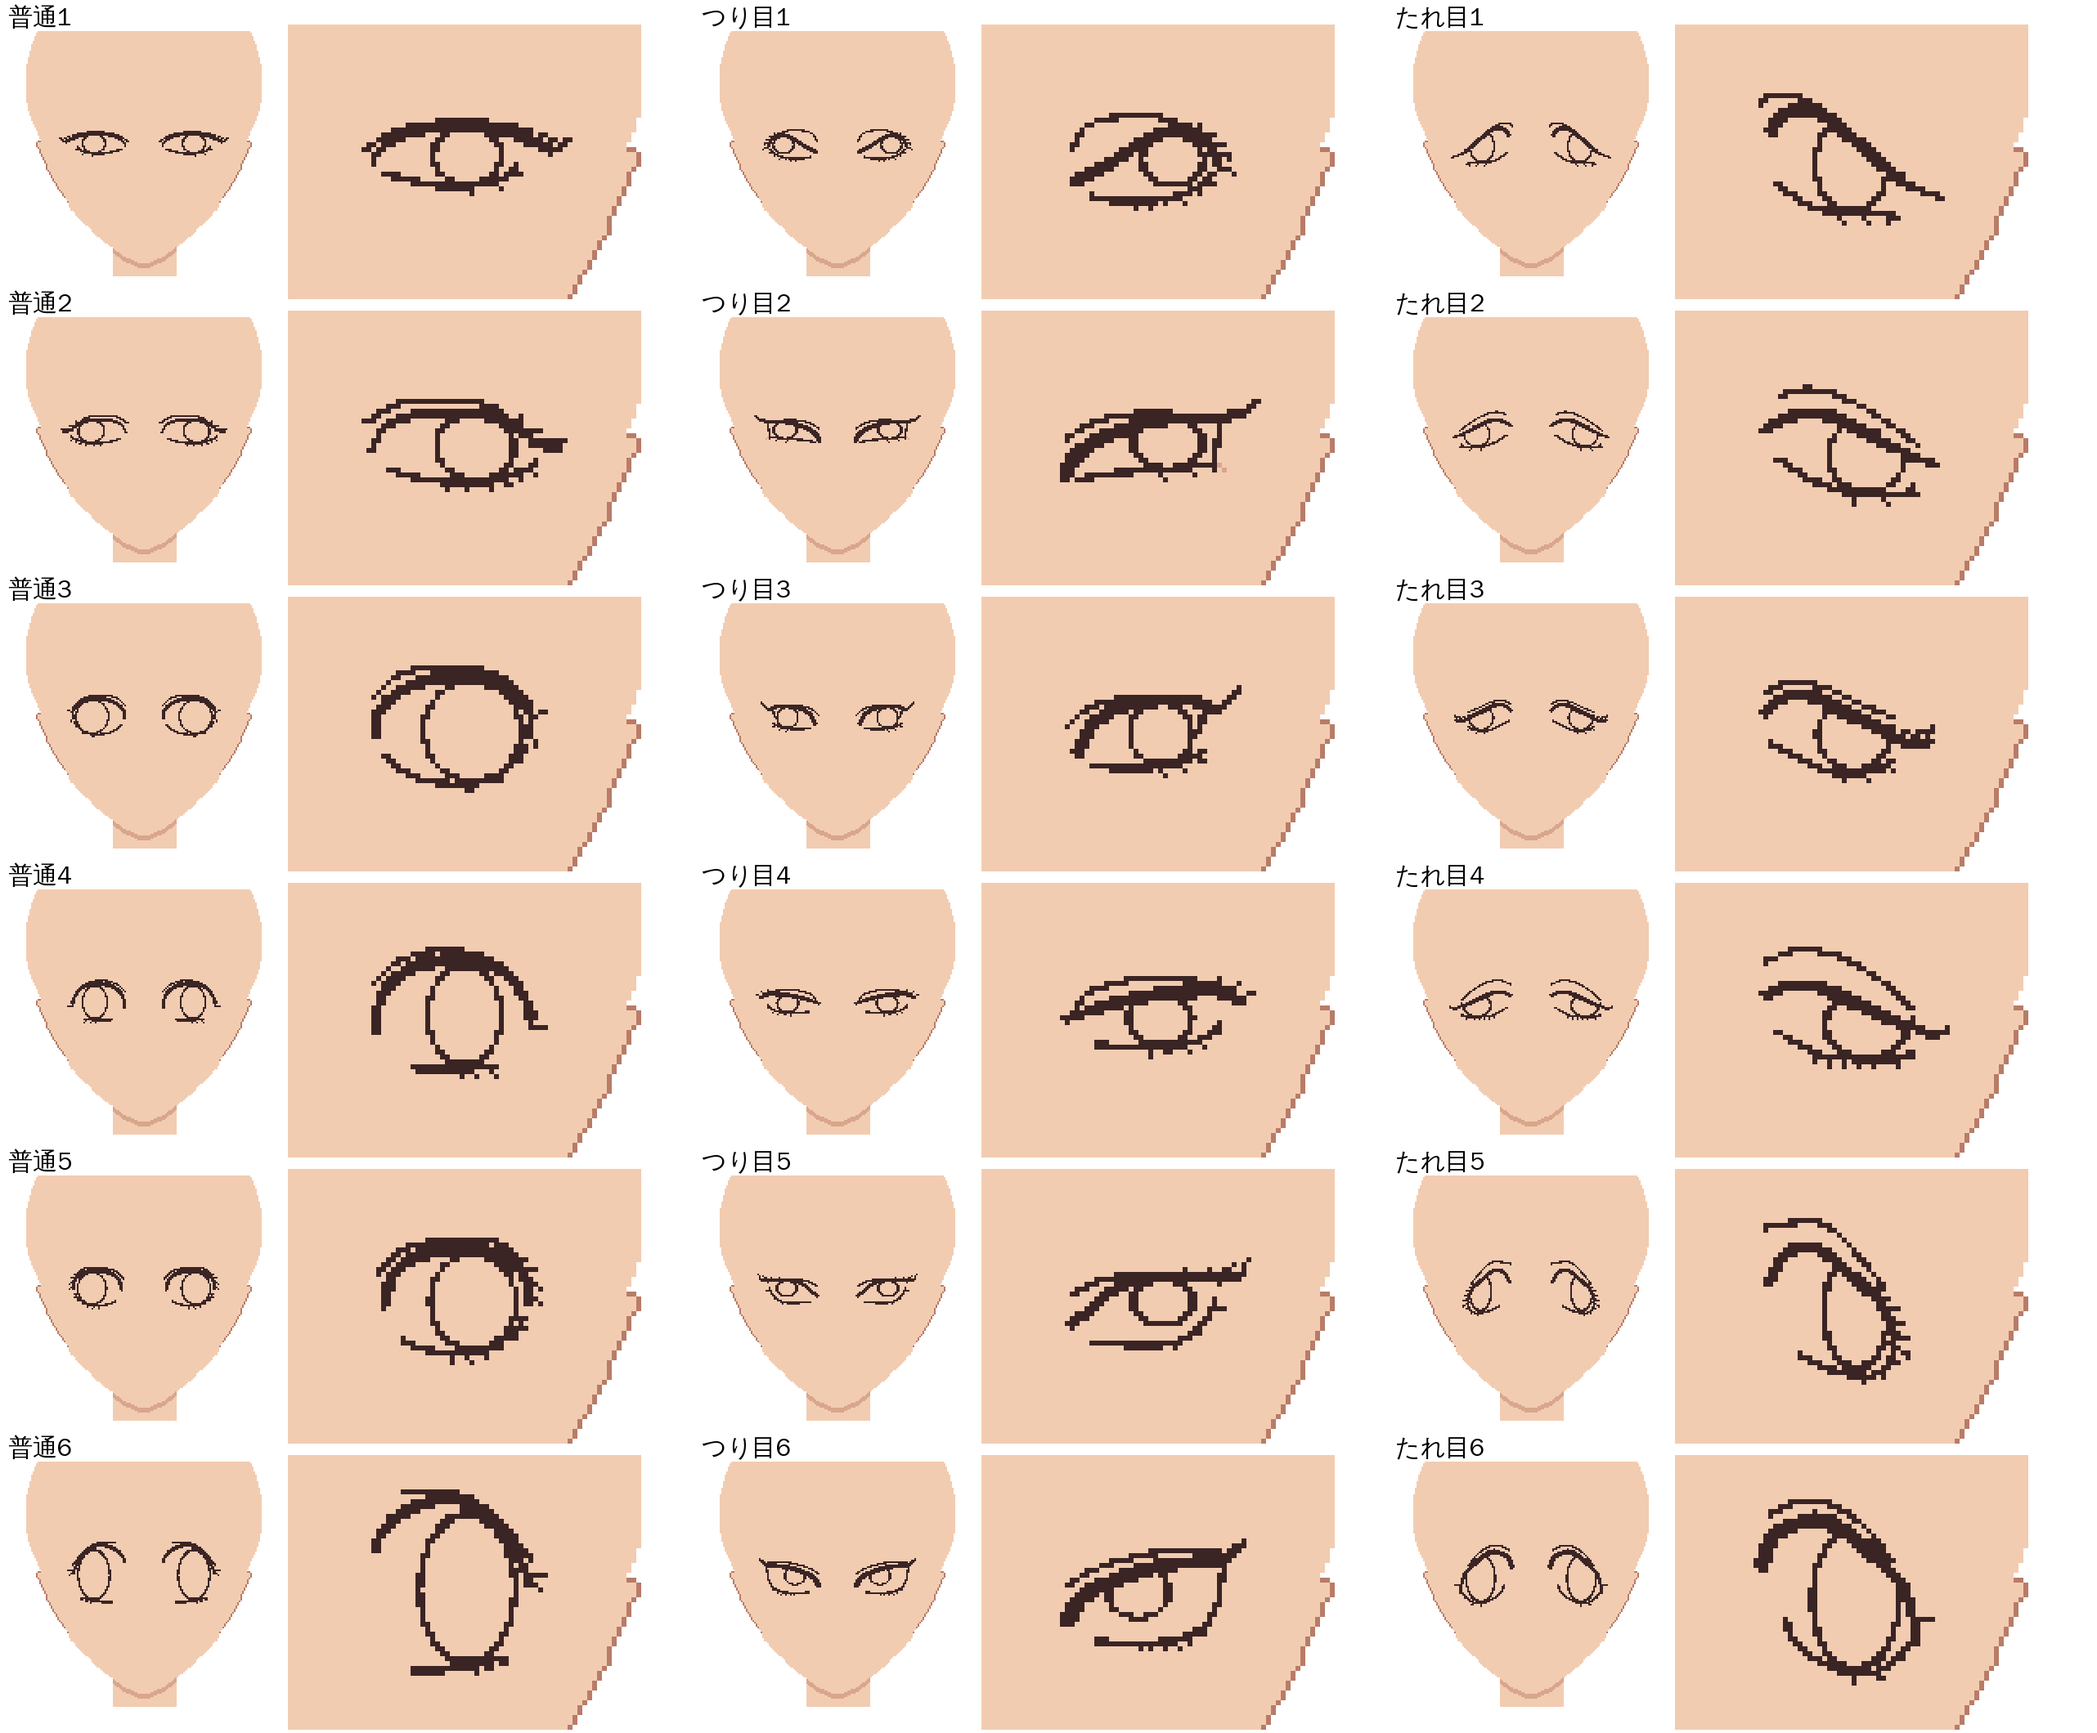
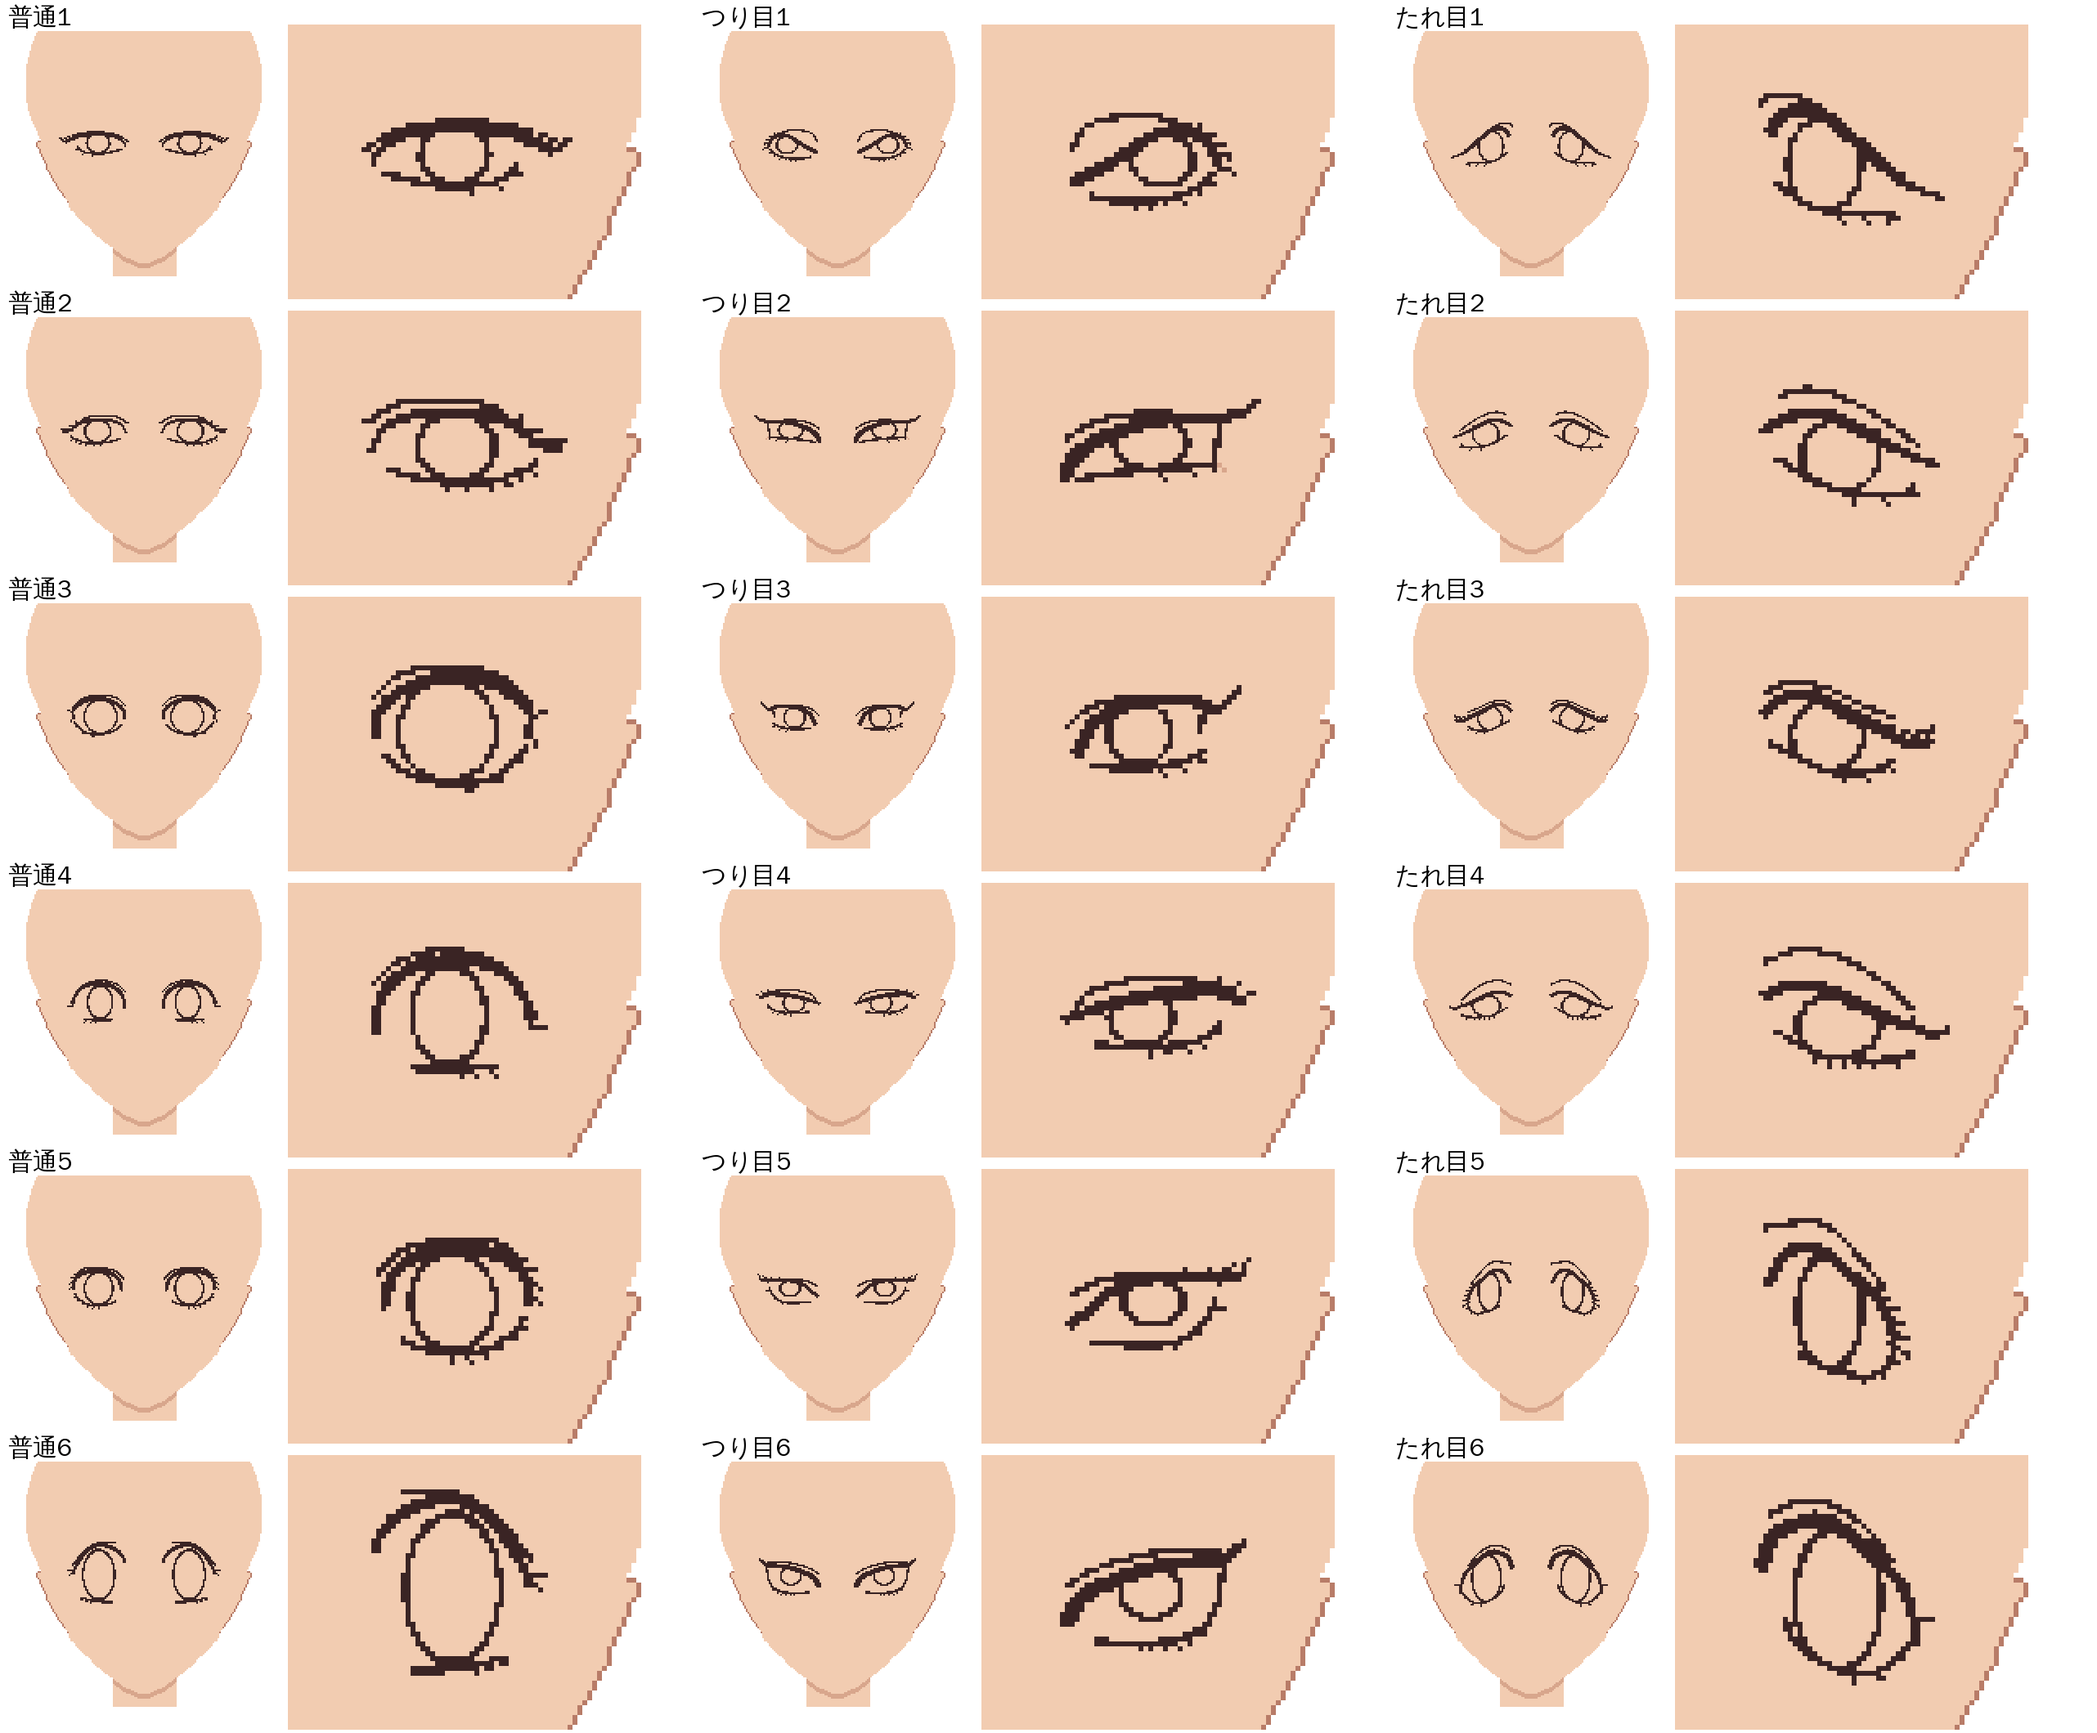
droom 臉模 v2：黑眼珠橫向改放在眼睛開口正中間、再往內眼角偏 0.6（使用者：眼珠太外面；IRCENTER=0 回到教學量的位置、IRIN 調偏多少）
Claude-Session: https://claude.ai/code/session_01FDQv7ddy7JMjePn6AqJ3VJ

diff --git a/web/droom/face_mold/v2/eyeframe.py b/web/droom/face_mold/v2/eyeframe.py
@@ -10,6 +10,7 @@ import math
 import os
 LINE=os.environ.get('LINE')=='1'
 LOWC='c';HOOKK=.7
+IRCENTER=os.environ.get('IRCENTER','1')=='1';IRIN=float(os.environ.get('IRIN','.6'))
 # 2026-11-19 第二本教學（普通／つり目／たれ目各 6 個）：上眼線外半段長出一根根細睫毛、下眼線外側幾根小短毛、
 # 雙眼皮線拉長貼著上眼線、黑眼珠改成直的橢圓（比較高、比較窄）
 LASHN=4;LASHL=3.0;IRISW,IRISH=5.6,7.8
@@ -166,6 +167,15 @@ class Frame:
         (x0,y0),(x1,y1)=lo[i],lo[i+1];tx,ty=x1-x0,y1-y0;L=math.hypot(tx,ty) or 1;tx/=L;ty/=L
         nx,ny=-ty,tx;dx,dy=nx*.8+tx*.5,ny*.8+ty*.5;D=math.hypot(dx,dy)
         s.lolash.append([(x0,y0),(x0+dx/D*1.5,y0+dy/D*1.5)])
+    # 黑眼珠橫向放在眼睛開口（黑眼珠中心那一列）的正中間，再往內眼角偏 IRIN（使用者 2026-11-19：眼珠太外面了；
+    # 教學是單眼示範，黑眼珠常常偏外眼角，兩眼放到臉上會像往外看）
+    s.irx=None
+    if 'ir' in T:
+      cy=T['ir'][1];xs=[]
+      for i in range(len(s.poly)):
+        (x1,y1),(x2,y2)=s.poly[i-1],s.poly[i]
+        if (y1-cy)*(y2-cy)<=0 and y1!=y2:xs.append(x1+(x2-x1)*(cy-y1)/(y2-y1))
+      if len(xs)>=2:s.irx=(min(xs)+max(xs))/2-IRIN
     s.box=(min(p[0] for p in s.poly)-5,max(p[0] for p in s.poly)+6,min(p[1] for p in s.poly)-8,max(p[1] for p in s.poly)+4)
   def _near(s,x,y,pts,w):
     best=None
@@ -202,7 +212,7 @@ class Frame:
     if not _inpoly(x,y,s.poly):return None
     # 眼睛裡面（同舊眼睛的配色）
     if 'ir' in T:   # 照教學量的黑眼珠：中心、橫半徑、直半徑（大、上緣藏在上眼線下面）
-      ic=(T['ir'][0]+idx,T['ir'][1]);IRX,IRY=T['ir'][2],T['ir'][3];k=min(IRX/IRISW,IRY/IRISH)
+      ic=((s.irx if (s.irx is not None and IRCENTER) else T['ir'][0])+idx,T['ir'][1]);IRX,IRY=T['ir'][2],T['ir'][3];k=min(IRX/IRISW,IRY/IRISH)
     else:ic=(.5+T['iris'][0]+idx,.3+T['iris'][1]);k=T.get('irs',1);IRX,IRY=IRISW*k,IRISH*k
     r=math.hypot((x-ic[0])/IRX,(y-ic[1])/IRY)
     if LINE:   # 線稿模式（使用者：先只看眼眶和瞳孔、不要著色）：黑眼珠只畫一圈外框
